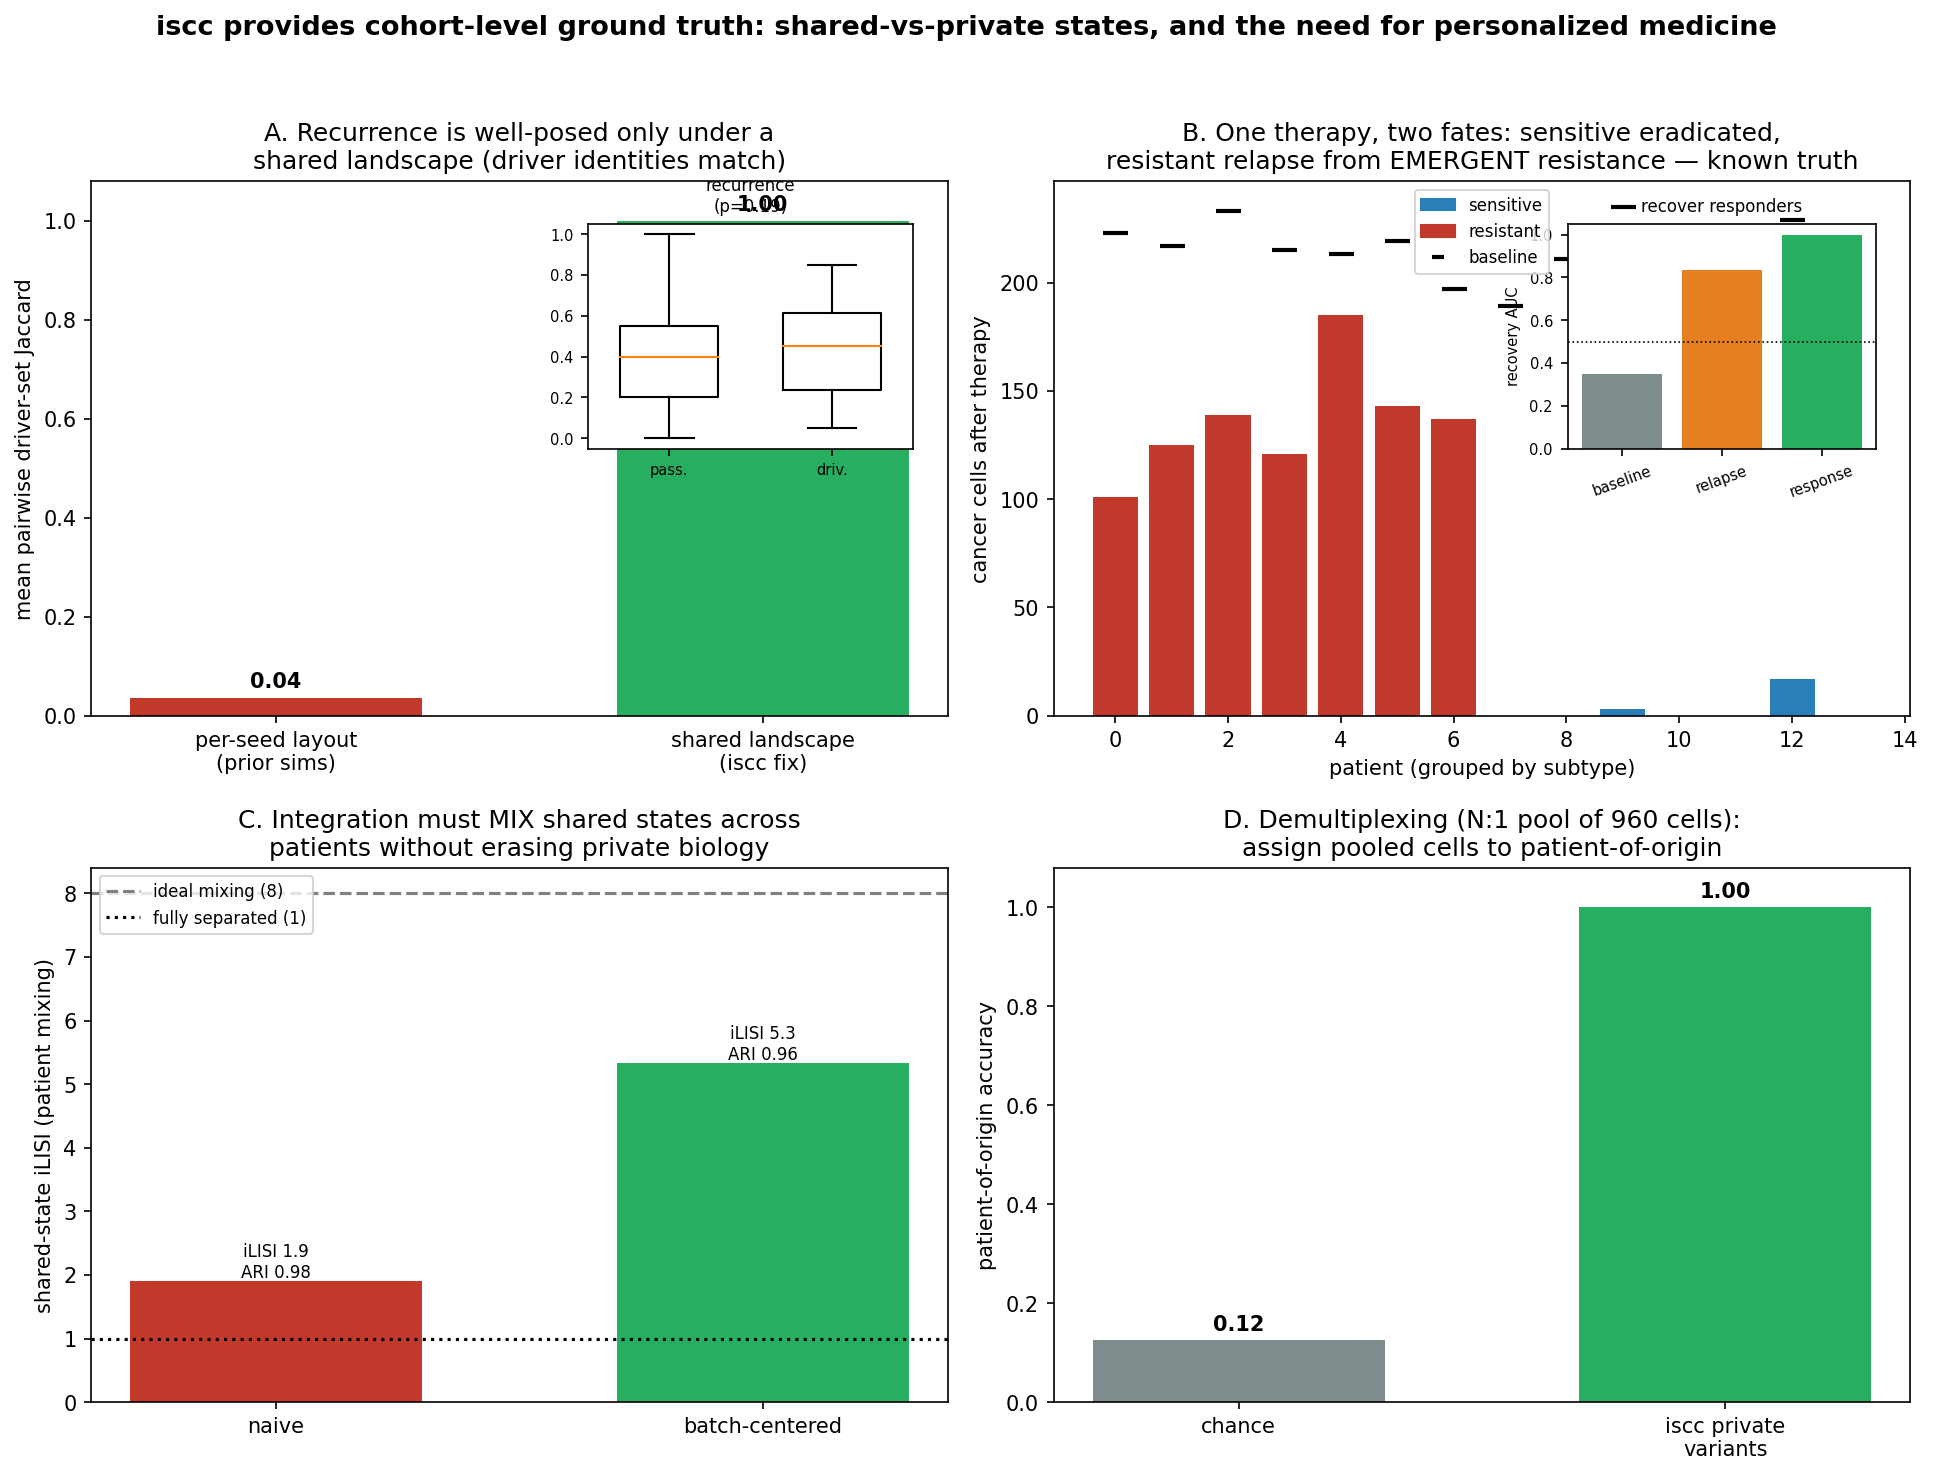
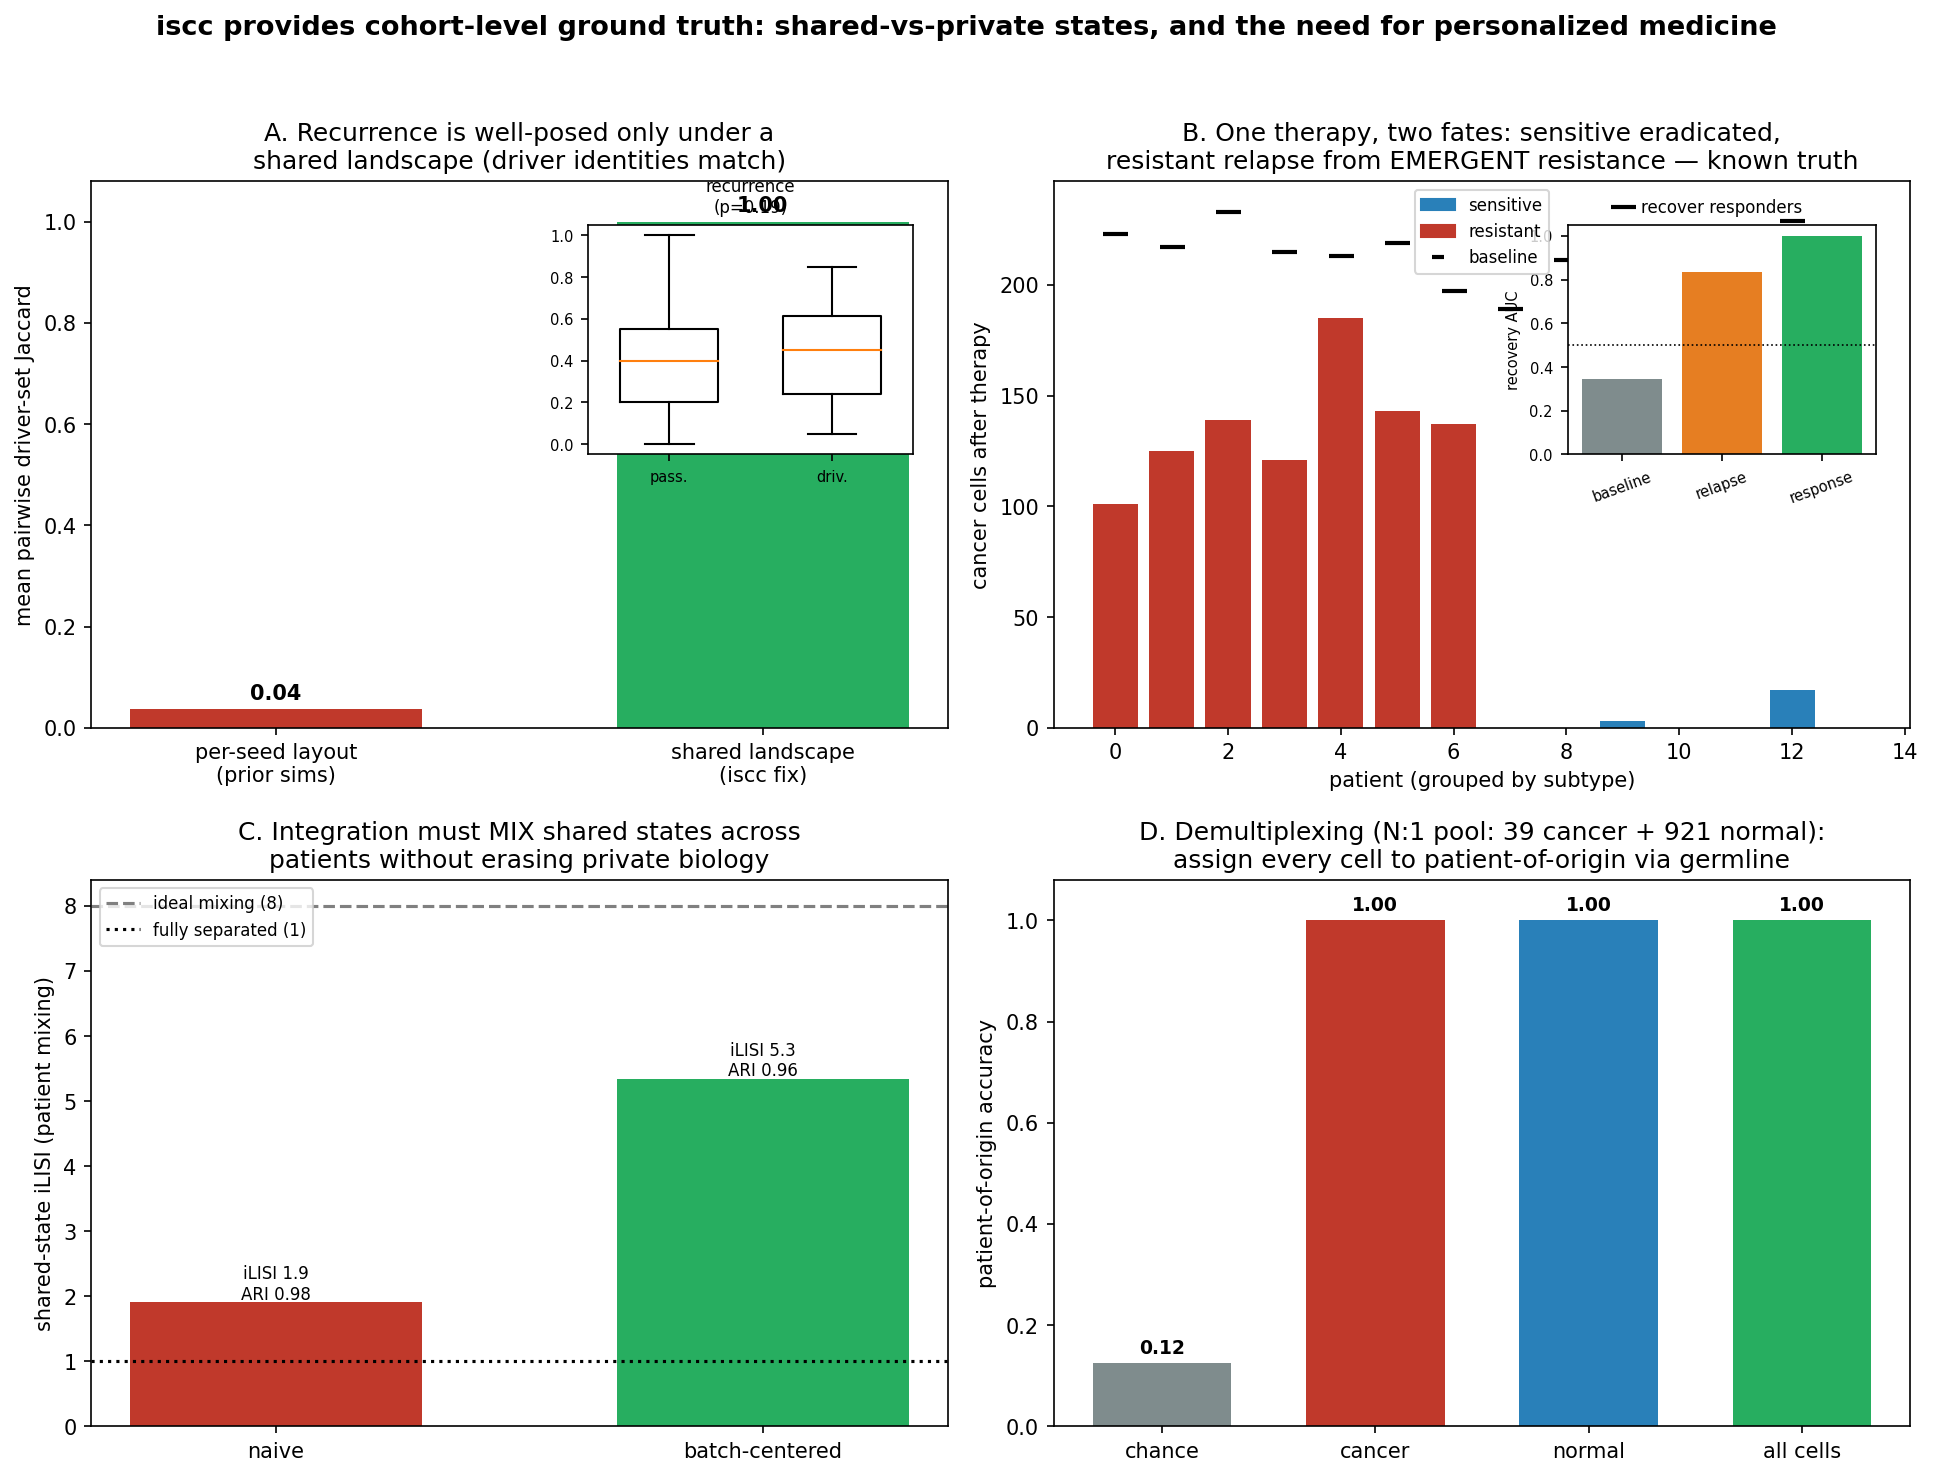
feat(cohort): demux benchmark pools cancer AND normal cells
Previously the demux benchmark grew all-cancer tumours (structure_radius=0) and
demuxed cancer cells only. Now that germline variants are carried by every cell
of the individual, the benchmark uses a realistic pool: solid tumours WITH their
normal microenvironment (epithelial/stromal ring + infiltrating immune cells),
and assigns EVERY pooled cell -- cancer and normal -- back to patient-of-origin
via its private germline variants (souporcell/vireo-style).

Result (N:1 pool, 8 patients, 39 cancer + 921 normal cells): overall accuracy
1.000, cancer 1.000, normal 1.000 (chance 0.125). Normal cells are demuxable
only because germline is in every cell -- the point of the previous fix. Figure
panel D and the manuscript caption/text updated to the per-compartment result.

Validation-only change (no engine/test changes); full suite unchanged at 429.

diff --git a/validation/cohort_common.py b/validation/cohort_common.py
@@ -307,34 +307,48 @@ def run_harmony(emb, batch_labels, work_dir=None):
 DEMUX_GENOME = {"n_segments": 12, "segment_size": 400}
 DEMUX_SEL = {"prop_driver": 0.03, "prop_dispersal": 0.0, "prop_immune_resistance": 0.0,
              "prop_treatment_resistance": 0.0, "driver_effects": 1.2}
-DEMUX_DEME = {"carrying_capacity": 12, "initial_cancer_cells": 6}
-DEMUX_SPATIAL = {"grid_size": 15, "structure_radius": 0}
+DEMUX_DEME = {"carrying_capacity": 10, "initial_cancer_cells": 6}
+# A REALISTIC pool: a solid tumour with a normal microenvironment (epithelial/stromal ring +
+# infiltrating immune cells) — so the demux operates on cancer AND normal cells, exactly like a real
+# multiplexed single-cell run. Genetic demux (souporcell/vireo) assigns EVERY cell to its individual
+# via germline variants, which iscc now carries in all cell types (tumour and normal).
+DEMUX_SPATIAL = {"grid_size": 17, "structure_radius": 5, "immune_density": 0.5}
 DEMUX_CANCER = {"division_rate": 0.6, "death_rate": 0.05, "max_birth_rate": 0.98,
                 "mutation_rate": 0.7, "dispersal_rate": 0.3}
+DEMUX_IMMUNE = {"division_rate": 0.0, "death_rate": 0.1, "dispersal_rate": 0.1}
 
 
-def demux_cohort(n_patients=8, steps=300, n_germline=40):
-    """All-cancer tumours with per-patient PRIVATE germline markers (the individual background genetic
-    demux exploits) — pooled N:1, the patient-of-origin answer key is the private-variant fingerprint."""
+def demux_cohort(n_patients=8, steps=320, n_germline=40):
+    """Solid tumours WITH a normal compartment (epithelial/stromal + immune), each patient carrying its
+    own PRIVATE germline markers (the individual background genetic demux exploits). Pooled N:1, the
+    patient-of-origin answer key is the private germline fingerprint carried by EVERY cell."""
     return Cohort(patient_seeds=list(range(1, n_patients + 1)), genome_params=DEMUX_GENOME,
                   selection_params=DEMUX_SEL, cancer_cell_params=DEMUX_CANCER, deme_params=DEMUX_DEME,
-                  spatial_params=DEMUX_SPATIAL, grow_steps=steps, n_germline_markers=n_germline).run()
+                  spatial_params=DEMUX_SPATIAL, immune_cell_params=DEMUX_IMMUNE, grow_steps=steps,
+                  n_germline_markers=n_germline).run()
 
 
 def demux_analysis(cohort, capacity=None, n_cells_per_patient=120):
-    """Pool all patients into one batch (N:1) and assign pooled cells back to patient-of-origin from
-    their private-variant genotype (souporcell/vireo-style). Returns accuracy vs the true patient."""
+    """Pool all patients into one batch (N:1) and assign EVERY pooled cell — cancer AND normal — back to
+    its patient-of-origin from its private germline variants (souporcell/vireo-style). Returns overall
+    accuracy and the per-compartment breakdown (normal cells are demuxable ONLY because germline is
+    carried by every cell of the individual, not just the tumour)."""
     from sklearn.cluster import AgglomerativeClustering
     K = cohort.n_patients
     pooled, meta = pool_cell_data([cohort.patients[p] for p in range(K)],
                                   n_cells_per_patient=n_cells_per_patient)
-    cancer = meta["cell_type"].values == "cancer"
-    v = (pooled["cell_snv"].loc[meta.index[cancer]].values > 0).astype(float)
-    truth = meta["patient"].values[cancer].astype(int)
+    types = meta["cell_type"].values
+    v = (pooled["cell_snv"].values > 0).astype(float)           # ALL pooled cells (cancer + normal)
+    truth = meta["patient"].values.astype(int)
     freq = v.mean(0)
     keep = (freq >= 0.01) & (freq <= 0.95)
     pred = AgglomerativeClustering(n_clusters=K).fit_predict(v[:, keep])
-    acc = match_accuracy(pred, truth, K)
-    out = dict(accuracy=acc, chance=1.0 / K, n_cells=int(cancer.sum()), n_sites=int(keep.sum()),
-               pred=pred, truth=truth, method="private-variant clustering (oracle calls)")
+    is_cancer = types == "cancer"
+    is_normal = np.isin(types, ["epithelial", "stromal", "immune"])
+    out = dict(accuracy=match_accuracy(pred, truth, K),
+               cancer_accuracy=match_accuracy(pred[is_cancer], truth[is_cancer], K) if is_cancer.any() else float("nan"),
+               normal_accuracy=match_accuracy(pred[is_normal], truth[is_normal], K) if is_normal.any() else float("nan"),
+               chance=1.0 / K, n_cells=len(truth), n_cancer=int(is_cancer.sum()), n_normal=int(is_normal.sum()),
+               n_sites=int(keep.sum()), pred=pred, truth=truth,
+               method="private germline clustering (cancer + normal cells)")
     return out

diff --git a/validation/validate_cohort.py b/validation/validate_cohort.py
@@ -23,8 +23,10 @@ Figure (manuscript/figures/validation_cohort.png), the strongest first-pass benc
      the SHARED cell states by patient (low iLISI); a correction restores cross-patient mixing while
      preserving the biology (cell-type ARI) — scored against iscc's shared-vs-private ground truth
      (real Harmony used when the iscc-harmony env is present, else a self-contained baseline).
-  D. DEMULTIPLEXING. N:1 pooling -> assign pooled cells back to patient-of-origin from their private
-     germline variants (souporcell/vireo-style): accuracy vs the true patient label, far above chance.
+  D. DEMULTIPLEXING. N:1 pooling of solid tumours WITH their normal microenvironment -> assign EVERY
+     pooled cell, cancer AND normal, back to patient-of-origin from its private germline variants
+     (souporcell/vireo-style): accuracy vs the true patient label, far above chance, in both
+     compartments (normal cells are demuxable only because germline is carried by every cell).
 
 Self-contained (numpy/scipy/sklearn); external integration/demux tools are optional and isolated in
 their own conda envs. Run:  python -u validation/validate_cohort.py
@@ -90,7 +92,8 @@ def main():
     dc = cc.demux_cohort(n_patients=args.demux_patients)
     da = cc.demux_analysis(dc)
     print(f"    patient-of-origin accuracy={da['accuracy']:.3f} (chance={da['chance']:.3f}, "
-          f"{da['n_cells']} pooled cells)")
+          f"{da['n_cells']} pooled cells: {da['n_cancer']} cancer + {da['n_normal']} normal)")
+    print(f"      by compartment — cancer={da['cancer_accuracy']:.3f}  normal={da['normal_accuracy']:.3f}")
 
     _figure(args.out, ra, pmres, ia, da)
     print(f"\nsaved figure -> {args.out}")
@@ -158,16 +161,17 @@ def _figure(out, ra, pm, ia, da):
     c.legend(fontsize=8, loc="upper left")
     c.set_title("C. Integration must MIX shared states across\npatients without erasing private biology")
 
-    # D. demultiplexing ------------------------------------------------------------------
+    # D. demultiplexing (cancer + normal cells) -----------------------------------------
     d = ax[1, 1]
-    d.bar([0, 1], [da["chance"], da["accuracy"]], color=["#7f8c8d", "#27ae60"], width=0.6)
-    d.set_xticks([0, 1]); d.set_xticklabels(["chance", "iscc private\nvariants"])
+    vals = [da["chance"], da["cancer_accuracy"], da["normal_accuracy"], da["accuracy"]]
+    d.bar(range(4), vals, color=["#7f8c8d", "#c0392b", "#2980b9", "#27ae60"], width=0.65)
+    d.set_xticks(range(4)); d.set_xticklabels(["chance", "cancer", "normal", "all cells"])
     d.set_ylabel("patient-of-origin accuracy")
     d.set_ylim(0, 1.08)
-    for x, v in zip([0, 1], [da["chance"], da["accuracy"]]):
-        d.text(x, v + 0.02, f"{v:.2f}", ha="center", fontweight="bold")
-    d.set_title(f"D. Demultiplexing (N:1 pool of {da['n_cells']} cells):\n"
-                "assign pooled cells to patient-of-origin")
+    for x, v in zip(range(4), vals):
+        d.text(x, v + 0.02, f"{v:.2f}", ha="center", fontweight="bold", fontsize=9)
+    d.set_title(f"D. Demultiplexing (N:1 pool: {da['n_cancer']} cancer + {da['n_normal']} normal):\n"
+                "assign every cell to patient-of-origin via germline")
 
     fig.suptitle("iscc provides cohort-level ground truth: shared-vs-private states, and the need for "
                  "personalized medicine", fontsize=13, fontweight="bold")

diff --git a/manuscript/paper.tex b/manuscript/paper.tex
@@ -888,8 +888,11 @@ patient per batch, a naive embedding over-separates the \emph{shared} cell state
 integration-LISI), and a batch correction restores cross-patient mixing of shared states while
 preserving the private tumor biology (cell-type adjusted Rand index unchanged) --- scored against the
 shared-versus-private labels, with real Harmony/scVI usable in a dedicated environment. \emph{Demulti\-plexing}
-(\Cref{fig:cohort}D) assigns pooled cells back to their patient-of-origin from private germline variants
-(souporcell/vireo-style) at accuracy far above chance. Finally, \emph{recurrent-driver detection} is
+(\Cref{fig:cohort}D) pools solid tumors together with their normal microenvironment and assigns EVERY
+cell --- cancer and normal --- back to its patient-of-origin from its private germline variants
+(souporcell/vireo-style) at accuracy far above chance in both compartments; the normal cells are
+demuxable precisely because \texttt{iscc} carries the germline background in every cell of an
+individual, not only the tumor. Finally, \emph{recurrent-driver detection} is
 well-posed only because the landscape is shared: driver genes recur more than private passengers
 (\Cref{fig:cohort}A, inset), though in abstract mode the per-gene enrichment is modest because fitness
 depends on the \emph{count} of mutated drivers rather than their identity --- the real-genome arm model,
@@ -909,8 +912,9 @@ which concentrates selection on specific chromosome arms, is the sharper substra
   molecularly identical there) but is revealed by the therapy-selected emergent signature and by the
   response itself. \textbf{(C)} Multi-patient integration must mix the shared cell states across
   patients (raising integration-LISI toward the ideal) without erasing private biology (preserving
-  cell-type ARI). \textbf{(D)} Demultiplexing assigns pooled cells to patient-of-origin from private
-  variants, far above chance.}
+  cell-type ARI). \textbf{(D)} Demultiplexing a pool of tumors and their normal microenvironment assigns
+  every cell --- cancer and normal --- to its patient-of-origin from private germline variants, far above
+  chance in both compartments (normal cells demux only because germline is carried by every cell).}
   \label{fig:cohort}
 \end{figure}
 
